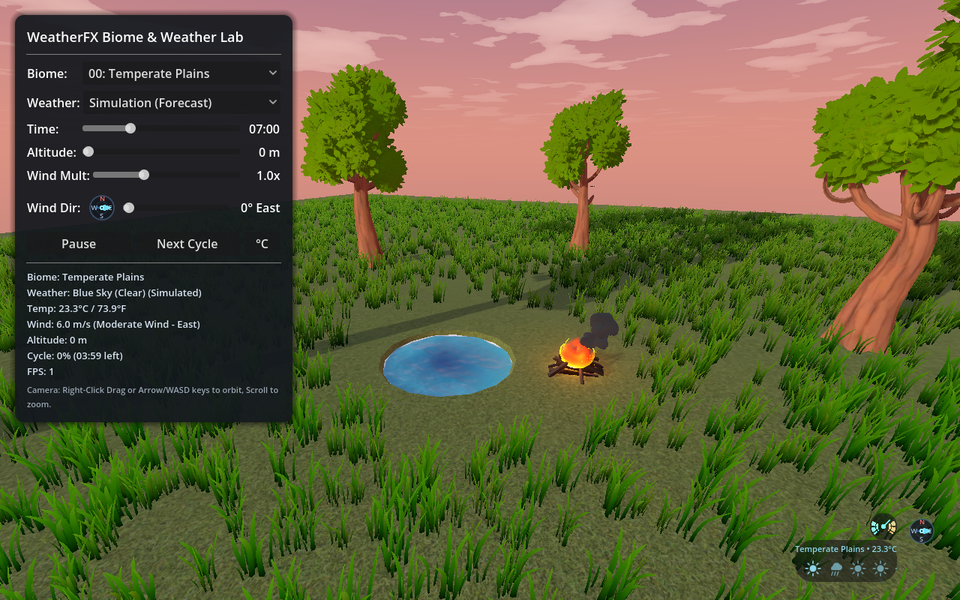
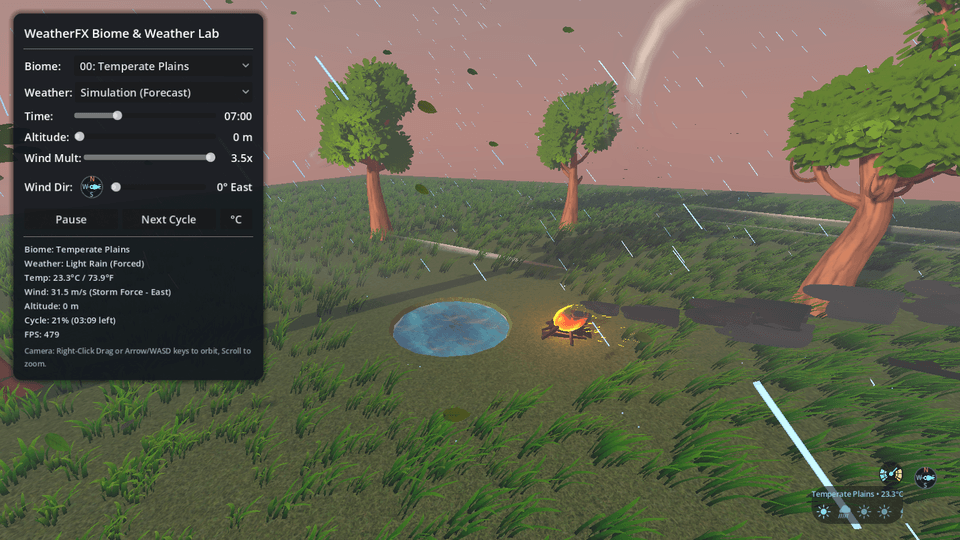
Take the storm-force dawn as the preview
The browser shot of the live demo is what prompted this, but it carries
64px letterbox bars each side: the demo's stretch aspect is keep on a
16:10 base, so the web build letterboxes at any window size, and
cropping to 16:9 would have clipped the weather panel or the HUD.

Reproduced in-engine instead, with the conditions set deliberately
rather than waited for: rain forced, the clock at 07:00 for the pink
dawn sky, and the wind multiplier at 3.5 for the storm-force funnel.
Captured at a true 16:9 1600x900 with content_scale_aspect set to EXPAND
at runtime, then 960x540 through TinyPNG, 708 KB to 238 KB.

diff --git a/tools/tinyify.py b/tools/tinyify.py
@@ -1,0 +1,300 @@
+#!/usr/bin/env python3
+
+# Setup:
+# pip install Pillow tinify
+
+import argparse
+import importlib
+import os
+import sys
+from pathlib import Path
+
+Image = None
+PngInfo = None
+tinify = None
+
+META_OPTIMIZED = "TINYIFY_OPTIMIZED"
+META_METHOD = "TINYIFY_METHOD"
+META_ORIGINAL_SIZE = "TINYIFY_ORIGINAL_SIZE"
+
+
+def get_pillow_modules():
+	global Image, PngInfo
+	if Image is None or PngInfo is None:
+		try:
+			from PIL import Image as pillow_image
+			from PIL.PngImagePlugin import PngInfo as png_info_class
+		except ImportError:
+			print("[Error] Pillow is required. Install with: pip install Pillow")
+			sys.exit(1)
+		Image = pillow_image
+		PngInfo = png_info_class
+	return Image, PngInfo
+
+
+def get_tinify_module(api_key: str):
+	global tinify
+	if tinify is None:
+		try:
+			tinify = importlib.import_module("tinify")
+		except ImportError:
+			return None
+	tinify.key = api_key
+	return tinify
+
+
+# TINY_PNY_API_KEY is a typo for TINY_PNG_API_KEY that is what C:\GitHub\.env actually spells, so
+# it is accepted rather than silently ignored, which is why the TinyPNG engine never engaged.
+API_KEY_NAMES = {"TINY_PNG_API_KEY", "TINYPNG_API_KEY", "TINY_PNY_API_KEY"}
+
+
+def find_env_file(project_root: Path):
+	"""The .env beside the project, or the shared one in the directory the repositories sit in."""
+	for candidate in (project_root / ".env", *(p / ".env" for p in project_root.parents)):
+		if candidate.exists():
+			return candidate
+	return None
+
+
+def load_api_key(project_root: Path):
+	for name in API_KEY_NAMES:
+		key = os.getenv(name)
+		if key:
+			return key.strip()
+
+	env_path = find_env_file(project_root)
+	if env_path is None:
+		return None
+
+	try:
+		with env_path.open("r", encoding="utf-8") as env_file:
+			for raw_line in env_file:
+				line = raw_line.strip()
+				if not line or line.startswith("#") or "=" not in line:
+					continue
+
+				name, value = line.split("=", 1)
+				var_name = name.strip()
+				if var_name not in API_KEY_NAMES:
+					continue
+
+				cleaned = value.strip().strip('"').strip("'")
+				if cleaned:
+					return cleaned
+	except OSError as error:
+		print(f"[Warning] Could not read .env file: {error}")
+
+	return None
+
+
+def iter_png_files(root_dir_path: Path):
+	for file_path in root_dir_path.rglob("*"):
+		if file_path.is_file() and file_path.suffix.lower() == ".png":
+			yield file_path
+
+
+def build_png_text_metadata(image, method: str, original_size: tuple[int, int]):
+	_, png_info_class = get_pillow_modules()
+	png_info = png_info_class()
+
+	for key, value in image.info.items():
+		if isinstance(value, str):
+			png_info.add_text(key, value)
+
+	png_info.add_text(META_OPTIMIZED, "1")
+	png_info.add_text(META_METHOD, method)
+	png_info.add_text(META_ORIGINAL_SIZE, f"{original_size[0]}x{original_size[1]}")
+	return png_info
+
+
+def local_optimize_file(png_path: Path, max_size: int):
+	image_module, _ = get_pillow_modules()
+	with image_module.open(png_path) as image:
+		original_size = image.size
+		largest_edge = max(original_size)
+		resized = False
+
+		if largest_edge > max_size:
+			scale_ratio = max_size / float(largest_edge)
+			new_width = max(1, int(round(original_size[0] * scale_ratio)))
+			new_height = max(1, int(round(original_size[1] * scale_ratio)))
+			processed = image.resize((new_width, new_height), image_module.Resampling.LANCZOS)
+			resized = True
+		else:
+			processed = image.copy()
+
+		png_info = build_png_text_metadata(image, "local", original_size)
+		processed.save(png_path, format="PNG", optimize=True, pnginfo=png_info)
+
+	return original_size, processed.size, resized, "local"
+
+
+def tinypng_optimize_file(png_path: Path, max_size: int, tinify_module):
+	image_module, _ = get_pillow_modules()
+	with image_module.open(png_path) as image:
+		original_size = image.size
+		largest_edge = max(original_size)
+
+	source = tinify_module.from_file(str(png_path))
+	if largest_edge > max_size:
+		source = source.resize(method="fit", width=max_size, height=max_size)
+	source.to_file(str(png_path))
+
+	with image_module.open(png_path) as output_image:
+		optimized_size = output_image.size
+		png_info = build_png_text_metadata(output_image, "tinypng", original_size)
+		output_image.save(png_path, format="PNG", optimize=True, pnginfo=png_info)
+
+	resized = optimized_size != original_size
+	return original_size, optimized_size, resized, "tinypng"
+
+
+def optimize_pngs(root_dir_path: Path, max_size: int, engine: str, api_key):
+	image_module, _ = get_pillow_modules()
+
+	if not root_dir_path.exists() or not root_dir_path.is_dir():
+		print(f"[Error] Root directory '{root_dir_path}' does not exist or is not a directory.")
+		sys.exit(1)
+
+	root_dir_path = root_dir_path.resolve()
+	png_files = list(iter_png_files(root_dir_path))
+	if not png_files:
+		print(f"No .png files found in '{root_dir_path}'.")
+		return
+
+	use_tinypng = engine in {"auto", "tinypng"} and api_key is not None
+	tinify_module = get_tinify_module(api_key) if use_tinypng else None
+	if engine == "tinypng" and tinify_module is None:
+		print("[Error] TinyPNG engine requested, but tinify is not installed.")
+		print("Install with: pip install tinify")
+		sys.exit(1)
+
+	if use_tinypng and tinify_module is None:
+		print("[Warning] tinify is not installed. Falling back to local Pillow optimization.")
+		use_tinypng = False
+
+	if engine == "tinypng" and api_key is None:
+		print("[Error] TinyPNG engine requested, but no API key found in env/.env.")
+		sys.exit(1)
+
+	print("Engine: TinyPNG + local fallback" if use_tinypng else "Engine: Local Pillow")
+	print(f"Found {len(png_files)} .png files to process.")
+
+	processed_count = 0
+	resized_count = 0
+	skipped_count = 0
+	fallback_count = 0
+	fail_count = 0
+
+	tiny_errors = {
+		"AccountError",
+		"ClientError",
+		"ServerError",
+		"ConnectionError",
+	}
+
+	for png_file in png_files:
+		rel_path = png_file.relative_to(root_dir_path)
+
+		try:
+			with image_module.open(png_file) as image:
+				if image.info.get(META_OPTIMIZED) == "1":
+					skipped_count += 1
+					print(f"Skipped: {rel_path} (already optimized)")
+					continue
+
+			if use_tinypng:
+				try:
+					original_size, optimized_size, was_resized, method = tinypng_optimize_file(
+						png_file,
+						max_size,
+						tinify_module,
+					)
+				except Exception as error:
+					if type(error).__name__ in tiny_errors:
+						print(f"[Warning] TinyPNG failed for '{rel_path}': {error}")
+						print("[Warning] Falling back to local Pillow for this file.")
+						original_size, optimized_size, was_resized, method = local_optimize_file(
+							png_file,
+							max_size,
+						)
+						fallback_count += 1
+					else:
+						raise
+			else:
+				original_size, optimized_size, was_resized, method = local_optimize_file(
+					png_file,
+					max_size,
+				)
+
+			if was_resized:
+				resized_count += 1
+				print(
+					f"Resized ({method}): {rel_path} "
+					f"({original_size[0]}x{original_size[1]} -> "
+					f"{optimized_size[0]}x{optimized_size[1]})"
+				)
+			else:
+				print(f"Optimized ({method}): {rel_path} ({original_size[0]}x{original_size[1]})")
+			processed_count += 1
+		except OSError as error:
+			print(f"[Error] Failed to process '{rel_path}': {error}")
+			fail_count += 1
+		except Exception as error:
+			print(f"[Error] Unexpected failure for '{rel_path}': {error}")
+			fail_count += 1
+
+	print("\nTinyify summary:")
+	print(f"Processed: {processed_count}")
+	print(f"Resized: {resized_count}")
+	print(f"Skipped: {skipped_count}")
+	if fallback_count > 0:
+		print(f"Fallback to local: {fallback_count}")
+	if fail_count > 0:
+		print(f"Failed: {fail_count}")
+
+
+def main():
+	project_root = Path(__file__).resolve().parent.parent
+
+	parser = argparse.ArgumentParser(
+		description=(
+			"Recursively optimize PNG files in place, cap max edge, and tag files "
+			"with metadata so they are skipped on future runs."
+		)
+	)
+	parser.add_argument(
+		"root",
+		type=str,
+		nargs="?",
+		default=str(project_root),
+		help="Root directory to scan recursively (default: repository root)",
+	)
+	parser.add_argument(
+		"--max-size",
+		type=int,
+		default=512,
+		help="Maximum size in pixels for the largest image edge (default: 512)",
+	)
+	parser.add_argument(
+		"--engine",
+		choices=["auto", "local", "tinypng"],
+		default="auto",
+		help="Optimization engine: auto, local, or tinypng (default: auto)",
+	)
+	args = parser.parse_args()
+
+	if args.max_size <= 0:
+		print("[Error] --max-size must be greater than 0.")
+		sys.exit(1)
+
+	api_key = load_api_key(project_root)
+	optimize_pngs(Path(args.root), max_size=args.max_size, engine=args.engine, api_key=api_key)
+
+
+if __name__ == "__main__":
+	main()
+
+# Example:
+# python3 tools/tinyify.py
+# python3 tools/tinyify.py --engine tinypng

diff --git a/tools/make_preview.py b/tools/make_preview.py
@@ -1,0 +1,71 @@
+#!/usr/bin/env python3
+"""Turn an in-engine screenshot into a repository preview image.
+
+Previews are 960x540, the size the portfolio site at kirbycope.github.io uses, and are compressed
+through TinyPNG before they are committed.
+
+    python tools/make_preview.py <screenshot.png> <destination.png>
+
+The source should already be 16:9. A Godot project whose stretch aspect is "keep" on a 16:10 base
+letterboxes every window size back to 16:10, so set the root's content_scale_aspect to EXPAND at
+runtime before capturing rather than cropping afterwards and losing the edges of the HUD.
+"""
+
+from __future__ import annotations
+
+import sys
+from pathlib import Path
+
+WIDTH, HEIGHT = 960, 540
+
+
+def main() -> int:
+    if len(sys.argv) != 3:
+        print(__doc__)
+        return 2
+
+    source, dest = Path(sys.argv[1]), Path(sys.argv[2])
+    if not source.exists():
+        sys.exit(f"No such screenshot: {source}")
+
+    from PIL import Image
+
+    image = Image.open(source)
+    ratio = image.width / image.height
+    target = WIDTH / HEIGHT
+    if abs(ratio - target) > 0.01:
+        print(f"[Warning] {source.name} is {image.width}x{image.height} ({ratio:.2f}), not 16:9 "
+              f"({target:.2f}). It will be centre-cropped, which trims the edges of the HUD.")
+        if ratio > target:
+            new_width = int(image.height * target)
+            left = (image.width - new_width) // 2
+            image = image.crop((left, 0, left + new_width, image.height))
+        else:
+            new_height = int(image.width / target)
+            top = (image.height - new_height) // 2
+            image = image.crop((0, top, image.width, top + new_height))
+
+    image = image.convert("RGB").resize((WIDTH, HEIGHT), Image.LANCZOS)
+    dest.parent.mkdir(parents=True, exist_ok=True)
+    image.save(dest, "PNG", optimize=True)
+    resized = dest.stat().st_size
+
+    sys.path.insert(0, str(Path(__file__).parent))
+    import tinyify
+
+    key = tinyify.load_api_key(Path.cwd())
+    if key is None:
+        print(f"{dest}: {WIDTH}x{HEIGHT}, {resized:,} bytes. No TinyPNG key found, not compressed.")
+        return 0
+
+    tinify = tinyify.get_tinify_module(key)
+    tinify.from_file(str(dest)).to_file(str(dest))
+    final = dest.stat().st_size
+    print(f"{dest}: {WIDTH}x{HEIGHT}, {resized:,} -> {final:,} bytes "
+          f"({100 - final * 100 // resized}% off with TinyPNG)")
+    print(f"TinyPNG compressions used this month: {tinify.compression_count}")
+    return 0
+
+
+if __name__ == "__main__":
+    sys.exit(main())
